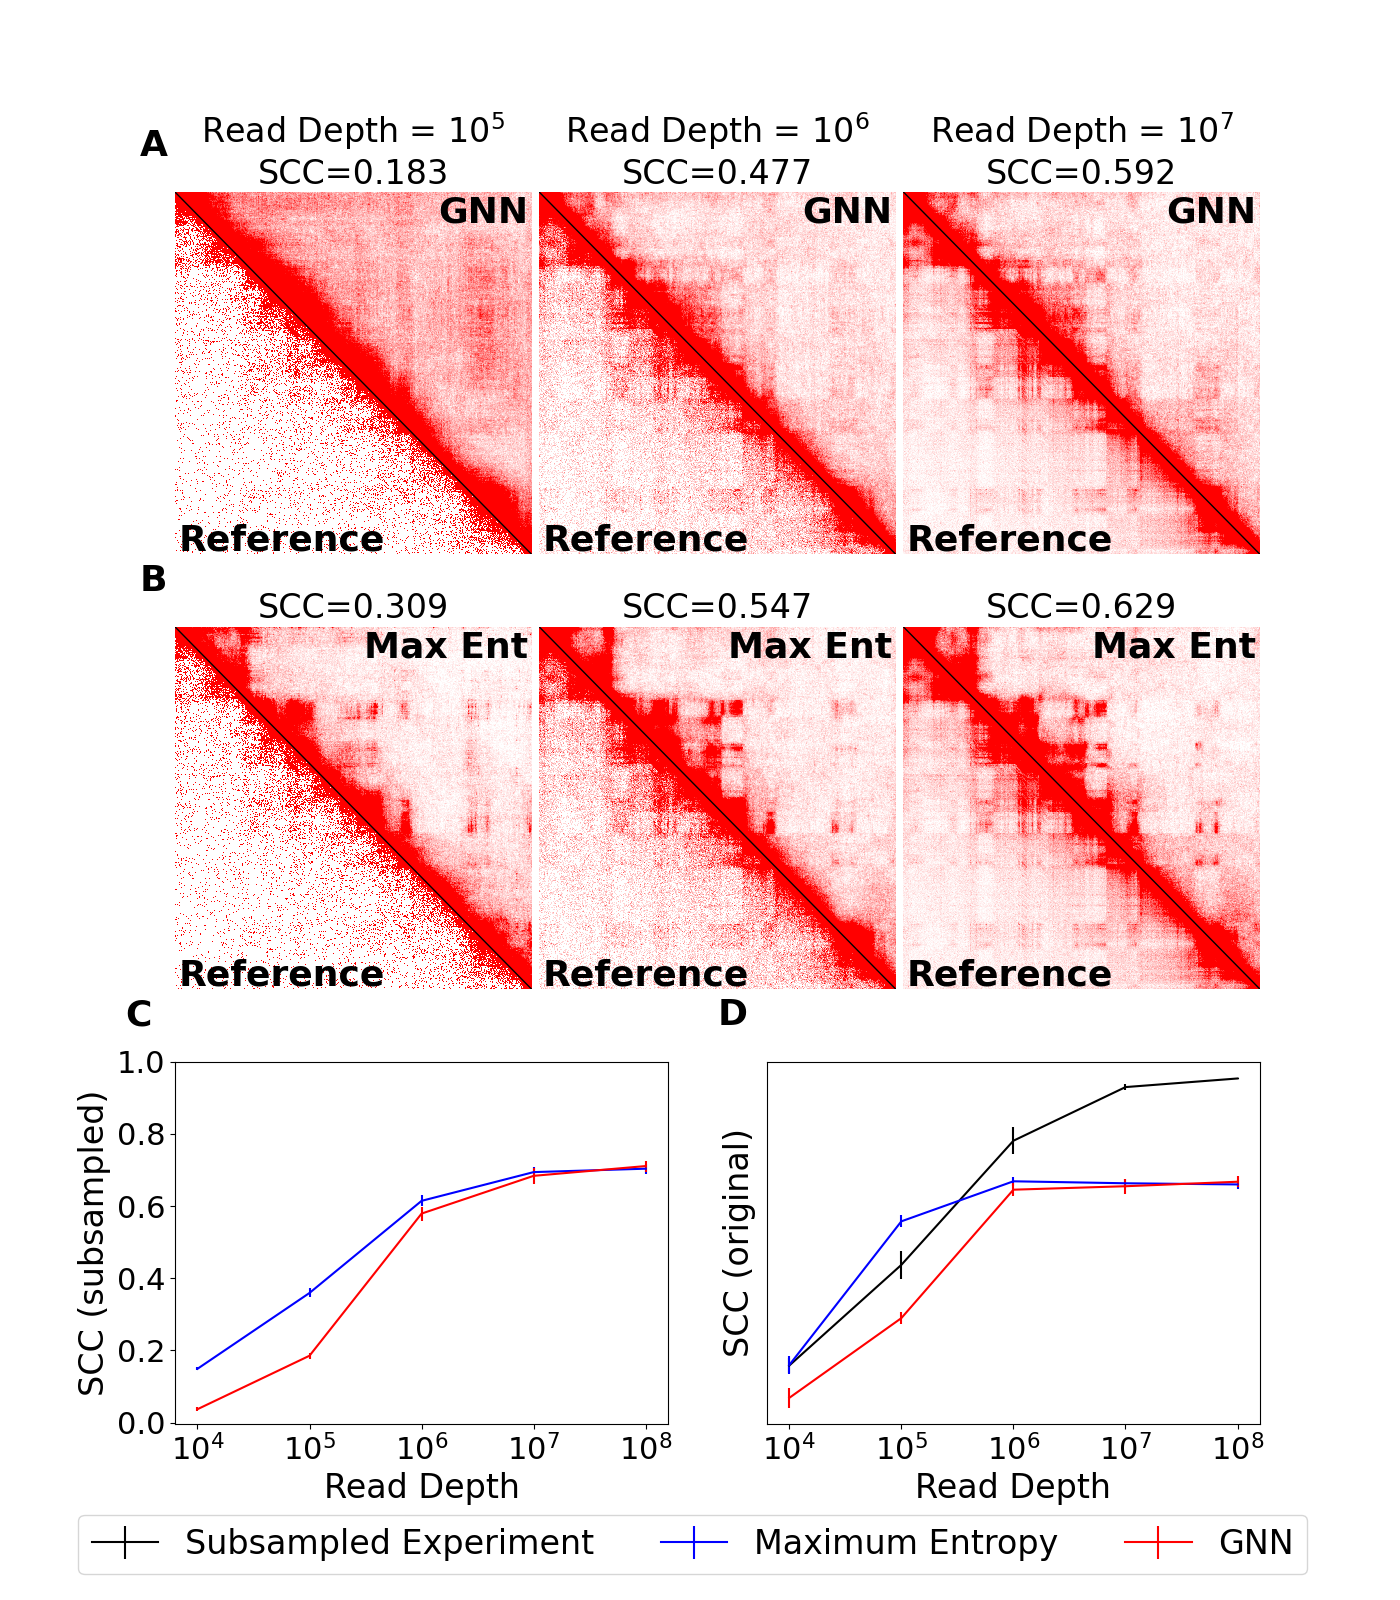
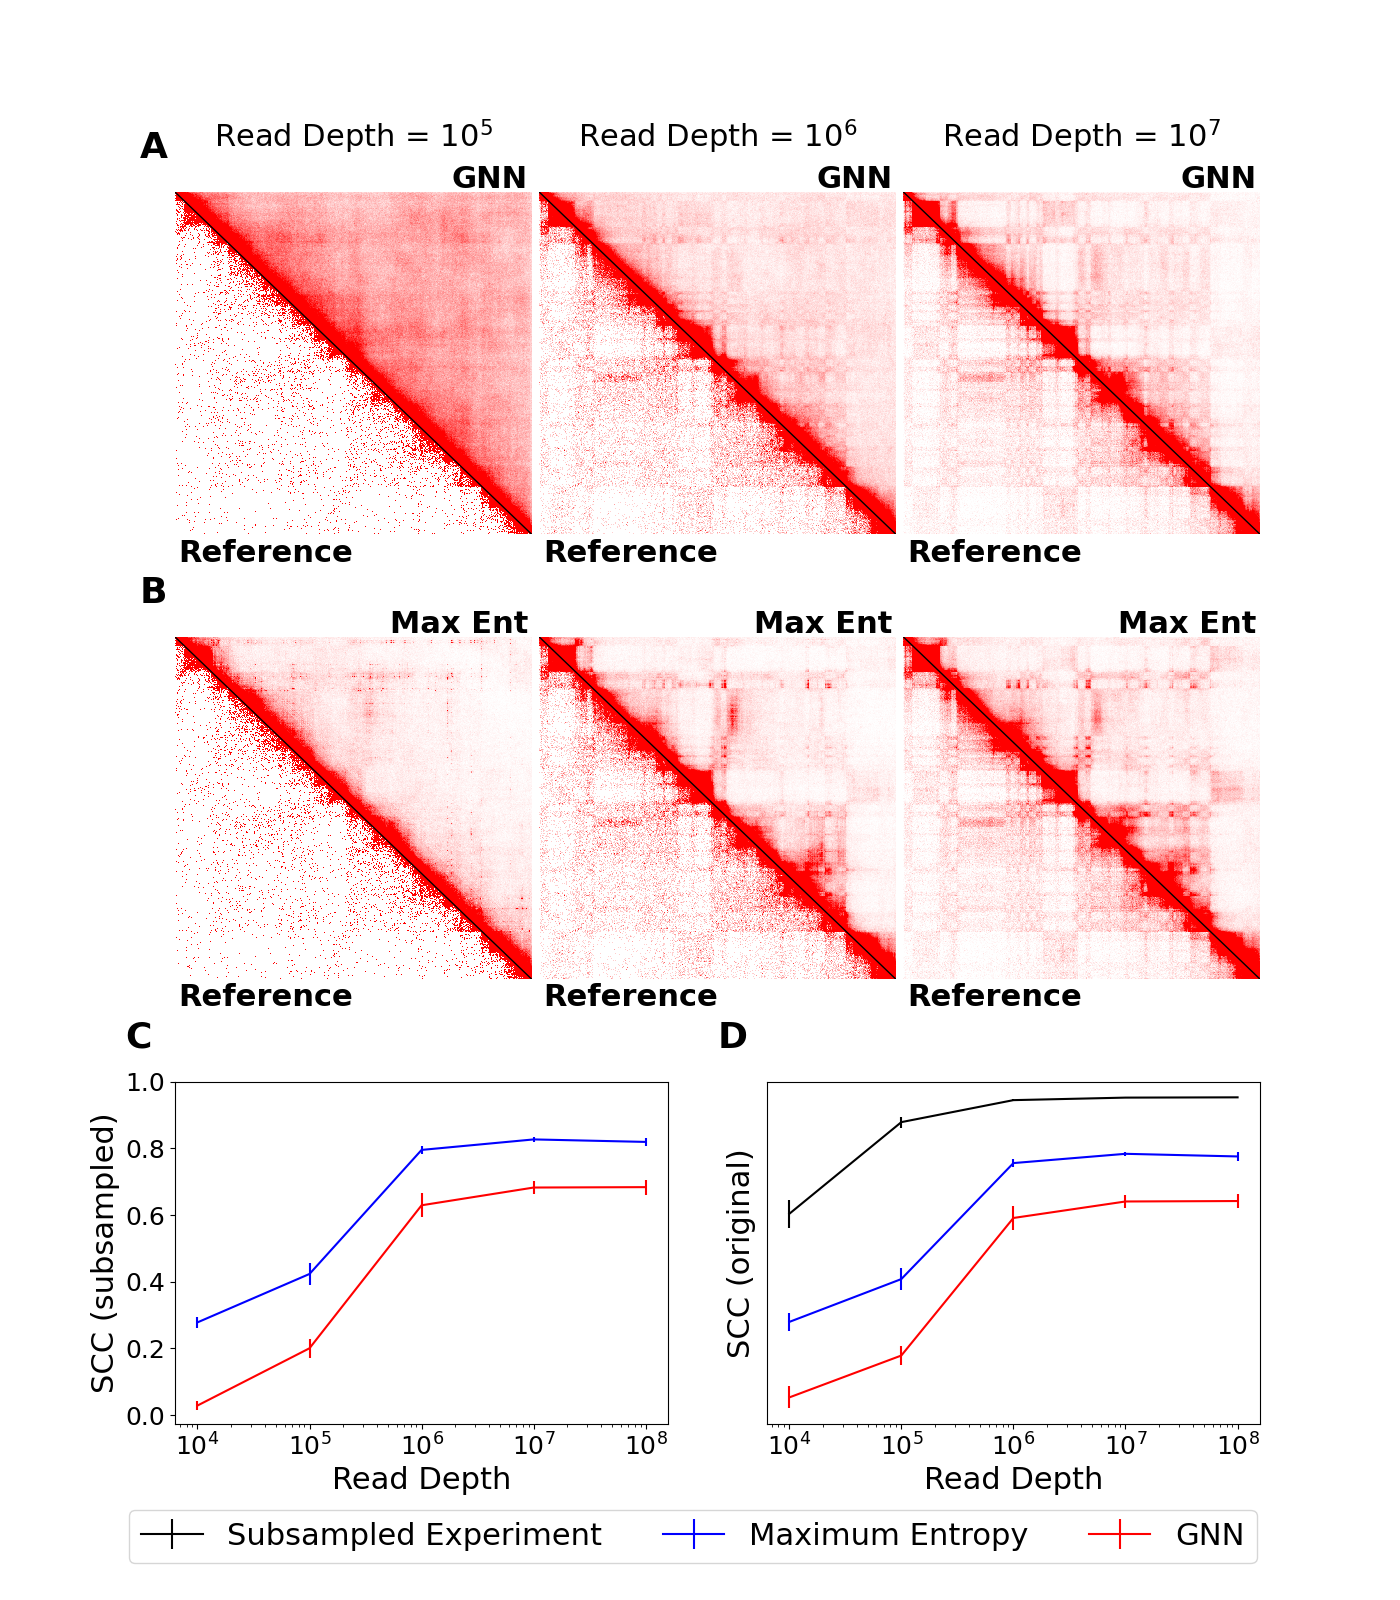
downsampling

diff --git a/scripts/downsampling/experimental.py b/scripts/downsampling/experimental.py
@@ -21,7 +21,7 @@ from sequences_to_contact_maps.scripts.load_utils import (
     get_final_max_ent_folder, load_import_log)
 
 sys.path.append('/home/erschultz/TICG-chromatin')
-# import scripts.GNN
+import scripts.GNN as GNN
 import scripts.max_ent as max_ent
 from scripts.data_generation.modify_maxent import get_samples
 
@@ -78,7 +78,7 @@ def make_samples():
 
 def fit_gnn(GNN_id):
     dataset='downsampling_analysis'
-    samples, _ = get_samples(EXP_DATASET, test=True)
+    samples, _ = get_samples(EXP_DATASET, test=True, filter_cell_lines=['imr90'])
     N = 10
     samples = samples[:N]
 
@@ -88,13 +88,13 @@ def fit_gnn(GNN_id):
 
         for GNN_ID in GNN_IDs:
             for i in samples:
-                mapping.append((dataset, i, GNN_ID, f'samples_exp{downsampling}', 180, None, 8, 1.5))
+                mapping.append((dataset, i, GNN_ID, f'samples_exp{downsampling}', 200, None, 8, 1.5))
 
         print(len(mapping))
         print(mapping)
 
         # this must be nested because of how GNN uses scratch
-        with mp.Pool(N) as p:
+        with mp.Pool(1) as p:
             p.starmap(GNN.check, mapping)
 
 def fit_max_ent():
@@ -112,16 +112,16 @@ def fit_max_ent():
     print(len(mapping))
     print(mapping)
 
-    with mp.Pool(15) as p:
-        p.starmap(max_ent.cleanup, mapping)
+    with mp.Pool(1) as p:
+        p.starmap(max_ent.check, mapping)
 
 
 def figure(GNN_ID):
-    label_fontsize=24
-    tick_fontsize=22
+    label_fontsize=22
+    tick_fontsize=18
     letter_fontsize=26
 
-    samples, _ = get_samples(EXP_DATASET, test=True)
+    samples, _ = get_samples(EXP_DATASET, test=True, filter_cell_lines=['imr90'])
     N = 10
     samples = samples[:N]
     exponents = np.arange(4, 9)
@@ -144,7 +144,7 @@ def figure(GNN_ID):
         y_list.append(y)
 
     # collect data
-    scc = SCC(h=1)
+    scc = SCC(h=5, K=100)
     for exp in exponents:
         for i, s in enumerate(samples):
             s_dir = osp.join(dir, f'samples_exp{exp}/sample{s}')
@@ -160,7 +160,7 @@ def figure(GNN_ID):
             corr_scc_var = scc.scc(y_dense, y_sparse)
             experiment_scc_dense[exp][i] = corr_scc_var
 
-            grid_root = 'optimize_grid_b_180_v_8_spheroid_1.5'
+            grid_root = 'optimize_grid_b_200_v_8_spheroid_1.5'
 
             # gnn
             gnn_dir = osp.join(s_dir, f'{grid_root}-GNN{GNN_ID}')
@@ -259,7 +259,7 @@ def figure(GNN_ID):
         scc = np.round(scc, 3)
         s = sns.heatmap(composite, linewidth = 0, vmin = 0, vmax = vmax,
                         cmap = RED_CMAP, ax = axes[i], cbar = False)
-        s.set_title(f'Read Depth = $10^{{{exp}}}$\nSCC={scc}',
+        s.set_title(f'Read Depth = $10^{{{exp}}}$\n',
                     fontsize = label_fontsize)
         # s.set_xticks(genome_ticks, labels = genome_labels, rotation = 0,
         #             fontsize = tick_fontsize)
@@ -268,9 +268,9 @@ def figure(GNN_ID):
         s.set_xticks([])
         s.set_yticks([])
         axes[i].axline((0,0), slope=1, color = 'k', lw=1)
-        axes[i].text(0.99*m, 0.01*m, 'GNN', fontsize=letter_fontsize, ha='right',
+        axes[i].text(0.99*m, -0.08*m, 'GNN', fontsize=label_fontsize, ha='right',
                     va='top', weight='bold')
-        axes[i].text(0.01*m, 0.99*m, 'Reference', fontsize=letter_fontsize,
+        axes[i].text(0.01*m, 1.08*m, 'Reference', fontsize=label_fontsize,
                     weight='bold')
 
     composites = np.zeros((len(exponents_hic), m, m))
@@ -283,7 +283,7 @@ def figure(GNN_ID):
         scc = np.round(scc, 3)
         s = sns.heatmap(composite, linewidth = 0, vmin = 0, vmax = vmax,
                         cmap = RED_CMAP, ax = ax, cbar = False)
-        s.set_title(f'SCC={scc}', fontsize = label_fontsize)
+        #s.set_title(f'SCC={scc}', fontsize = label_fontsize)
         # s.set_xticks(genome_ticks, labels = genome_labels, rotation = 0,
         #             fontsize = tick_fontsize)
         # s.set_yticks(genome_ticks, labels = genome_labels, rotation = 0,
@@ -291,9 +291,9 @@ def figure(GNN_ID):
         s.set_xticks([])
         s.set_yticks([])
         ax.axline((0,0), slope=1, color = 'k', lw=1)
-        ax.text(0.99*m, 0.01*m, 'Max Ent', fontsize=letter_fontsize, ha='right',
+        ax.text(0.99*m, -0.08*m, 'Max Ent', fontsize=label_fontsize, ha='right',
                 va='top', weight='bold')
-        ax.text(0.01*m, 0.99*m, 'Reference', fontsize=letter_fontsize, weight='bold')
+        ax.text(0.01*m, 1.08*m, 'Reference', fontsize=label_fontsize, weight='bold')
 
     # scc
     for ax, mode in zip([ax7, ax8], ['sparse', 'dense']):
@@ -305,13 +305,13 @@ def figure(GNN_ID):
                     color='k', label='Subsampled Experiment')
 
         max_ent_mean = max_ent_scc_stats[mode]['mean']
-        print(max_ent_mean)
+        print('ME', max_ent_mean)
         max_ent_std = max_ent_scc_stats[mode]['sem']
         ax.errorbar(read_counts, max_ent_mean, max_ent_std,
                         color='blue', label = 'Maximum Entropy')
 
         gnn_mean = gnn_scc_stats[mode]['mean']
-        print(gnn_mean)
+        print('GNN', gnn_mean)
         gnn_std = gnn_scc_stats[mode]['sem']
         ax.errorbar(read_counts, gnn_mean, gnn_std,
                         color='red', label='GNN')
@@ -338,7 +338,7 @@ def figure(GNN_ID):
                 size=letter_fontsize, weight='bold')
 
 
-    # plt.subplots_adjust(hspace=0.3)
+    plt.subplots_adjust(hspace=0.3)
     plt.tight_layout()
     plt.savefig('/home/erschultz/downsampling_analysis/downsampling_figure_exp.png')
     plt.savefig('/home/erschultz/TICG-chromatin/figures/downsampling_figure_exp.png')
@@ -351,6 +351,6 @@ def figure(GNN_ID):
 if __name__ == '__main__':
     mp.set_start_method('spawn')
     # make_samples()
-    fit_max_ent()
-    # fit_gnn(579)
-    # figure(579)
+    # fit_max_ent()
+    # fit_gnn(631)
+    figure(631)

diff --git a/scripts/plotting/metric_figure.py b/scripts/plotting/metric_figure.py
@@ -235,17 +235,29 @@ def scc_h():
             corr_gnn = scc.scc(y, y_gnn, var_stabilized = True)
             scc_gnn_dict[h].append(corr_gnn)
 
-
-    data_gnn = []
-    data_me = []
-    for h in range(h_max):
+    X = np.arange(0, h_max)
+    mean_gnn = np.empty(len(X))
+    mean_me = np.empty(len(X))
+    std_gnn = np.empty(len(X))
+    std_me = np.empty(len(X))
+    for i, h in enumerate(X):
         print(scc_gnn_dict[h])
-        data_gnn.append(np.mean(scc_gnn_dict[h]))
-        data_me.append(np.mean(scc_me_dict[h]))
+        mean_gnn[i] = np.mean(scc_gnn_dict[h])
+        mean_me[i] = np.mean(scc_me_dict[h])
+        std_gnn[i] = np.std(scc_gnn_dict[h])
+        std_me[i] = np.std(scc_me_dict[h])
 
-    plt.plot(data_gnn, label='GNN', c='blue')
-    plt.plot(data_me, label='ME', c='red')
-    plt.legend()
+    # plt.plot(X, mean_gnn, label='GNN', c='blue')
+    # plt.fill_between(X, mean_gnn - std_gnn, mean_gnn + std_gnn, color='blue', alpha=0.5)
+    # plt.plot(X, mean_me, label='Maximum Entropy', c='red')
+    # plt.fill_between(X, mean_me - std_me, mean_me + std_me, color='red', alpha=0.5)
+    plt.errorbar(X, mean_gnn, yerr = std_gnn, color='red', label='GNN')
+    plt.errorbar(X, mean_me, yerr=std_me, color='blue', label='Maximum Entropy')
+    plt.legend(loc='upper left')
+    plt.ylim(None, 0.95)
+    plt.ylabel('SCC', fontsize=16)
+    plt.xlabel(r'Filter Span Size, $h$', fontsize=16)
+    plt.tight_layout()
     plt.savefig('/home/erschultz/TICG-chromatin/figures/scc_h.png')
     plt.close()
 

diff --git a/scripts/max_ent.py b/scripts/max_ent.py
@@ -331,7 +331,7 @@ def setup_max_ent(dataset, sample, samples, bl, phi, v, vb,
     # config['grid_size'] = 200
 
     # config['diag_start'] = 10
-    root = osp.join(dir, f'{root}-max_ent{k}_strict')
+    root = osp.join(dir, f'{root}-max_ent{k}')
     if osp.exists(root):
         # shutil.rmtree(root)
         if verbose:
@@ -397,8 +397,8 @@ def cleanup(dataset, sample, samples='samples', bl=140, phi=0.03, v=None, vb=Non
 def main():
     samples = None
     # dataset = 'dataset_02_04_23'
-    # dataset = 'Su2020'; samples = ['1013_rescale1', '1004_rescale1']
-    dataset = 'dataset_12_06_23'
+    dataset = 'Su2020'; samples = ['1013_rescale1']
+    # dataset = 'dataset_12_06_23'
     # dataset = 'dataset_12_06_23'
     # dataset = 'dataset_11_21_23_imr90'; samples = range(1, 16)
     # dataset='dataset_HCT116_RAD21_KO'; samples=range(1,9)
@@ -414,7 +414,7 @@ def main():
         print(samples)
 
     mapping = []
-    k_angle=0;theta_0=180;b=180;ar=1.5;phi=None;v=8
+    k_angle=0;theta_0=180;b=180;ar=2.0;phi=None;v=8
     k=10
     contacts_distance=False
     for i in samples:
@@ -427,8 +427,8 @@ def main():
 
     with mp.Pool(1) as p:
         # p.starmap(setup_config, mapping)
-        # p.starmap(fit, mapping)
-        p.starmap(check, mapping)
+        p.starmap(fit, mapping)
+        # p.starmap(check, mapping)
         # p.starmap(post_analysis, mapping)
         # p.starmap(cleanup, mapping)
 

diff --git a/scripts/GNN.py b/scripts/GNN.py
@@ -11,8 +11,8 @@ from time import sleep
 import numpy as np
 import pylib.analysis as analysis
 import torch
-from data_generation.modify_maxent import get_samples
-from max_ent import setup_config
+# from data_generation.modify_maxent import get_samples
+# from max_ent import setup_config
 from pylib.Maxent import Maxent
 from pylib.Pysim import Pysim
 from pylib.utils import default, epilib, utils
@@ -24,6 +24,9 @@ sys.path.append('/home/erschultz')
 from sequences_to_contact_maps.result_summary_plots import \
     predict_chi_in_psi_basis
 
+sys.path.append('/home/erschultz/TICG-chromatin')
+from scripts.data_generation.modify_maxent import get_samples
+from scripts.max_ent import setup_config
 
 def fit_max_ent(dataset, sample, GNN_ID, sub_dir, b, phi, v, ar):
     print(sample)
